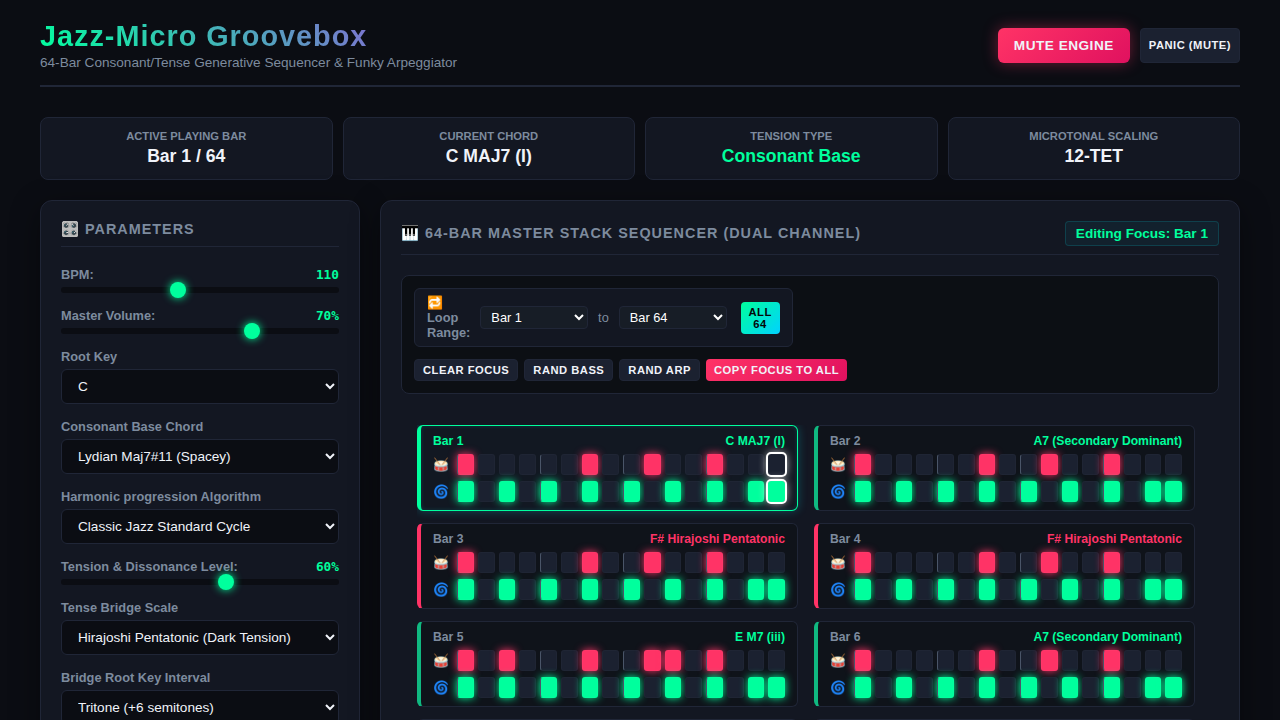
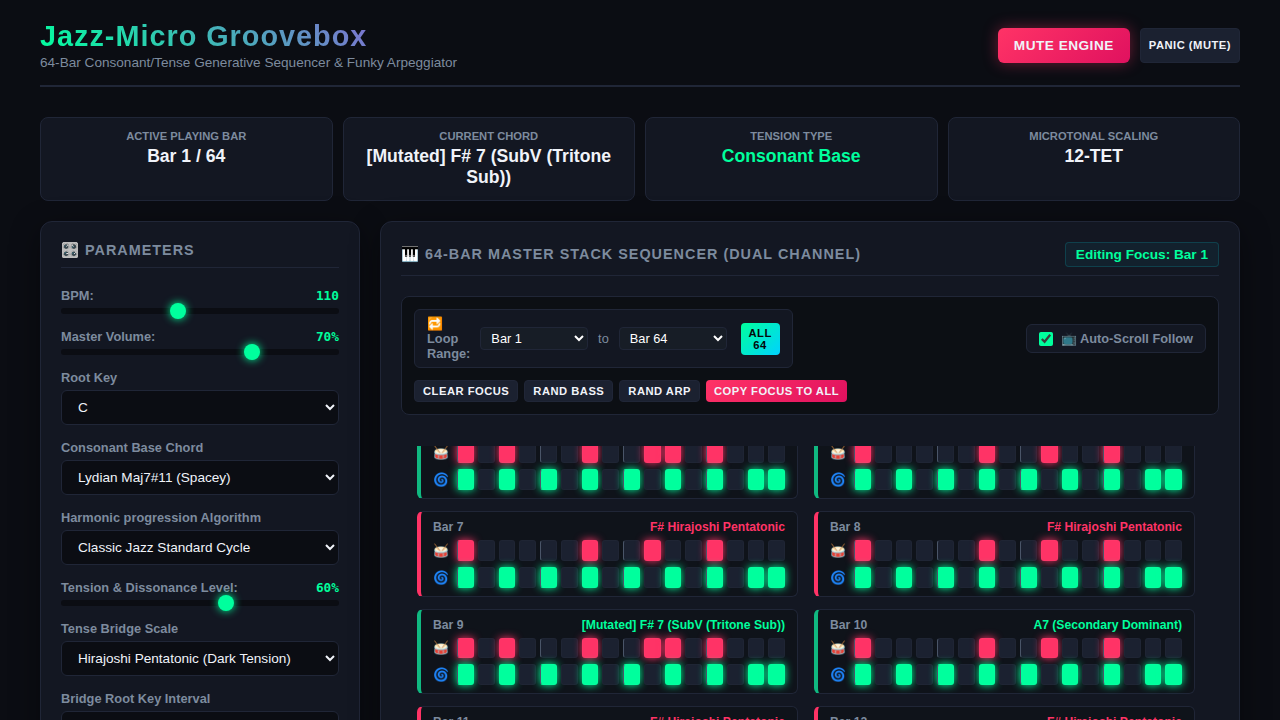
ux: restrict auto-scroll to sequencer element and add toggle control

diff --git a/jazz_groovebox.html b/jazz_groovebox.html
@@ -1107,6 +1107,13 @@
                         <button class="btn btn-xs btn-primary" id="resetLoopBtn" style="margin-left: 4px;">All 64</button>
                     </div>
 
+                    <div style="display: flex; align-items: center; gap: 8px; background: #131722; padding: 6px 12px; border-radius: 6px; border: 1px solid var(--panel-border);">
+                        <input type="checkbox" id="autoScrollActive" checked style="cursor: pointer; width: 14px; height: 14px; accent-color: var(--accent-base);">
+                        <label for="autoScrollActive" style="margin:0; font-size: 0.8rem; font-weight: bold; color: var(--text-muted); cursor: pointer; user-select: none;">
+                            📺 Auto-Scroll Follow
+                        </label>
+                    </div>
+
                     <div class="sequencer-quick-btns" style="display: flex; gap: 6px; flex-wrap: wrap;">
                         <button class="btn btn-xs" id="clearBarBtn">Clear Focus</button>
                         <button class="btn btn-xs" id="randRiddimBtn">Rand Bass</button>
@@ -2268,9 +2275,21 @@
         if (currentCard) {
             currentCard.classList.add('active-card');
 
-            // Auto-scroll current card into view inside scrollable master sequencer wrapper
-            if (bar !== lastPlayingBar) {
-                currentCard.scrollIntoView({ behavior: 'smooth', block: 'nearest' });
+            // Auto-scroll current card smoothly *only* inside its parent container (no window/viewport jump)
+            const autoScrollCheckbox = document.getElementById('autoScrollActive');
+            if (autoScrollCheckbox && autoScrollCheckbox.checked && bar !== lastPlayingBar) {
+                const container = document.getElementById('masterSequencerGrid');
+                if (container) {
+                    const cardTop = currentCard.offsetTop;
+                    const containerHeight = container.clientHeight;
+                    const cardHeight = currentCard.offsetHeight;
+
+                    // Center the active card in the scroll viewport smoothly
+                    container.scrollTo({
+                        top: cardTop - (containerHeight / 2) + (cardHeight / 2),
+                        behavior: 'smooth'
+                    });
+                }
             }
         }
 
